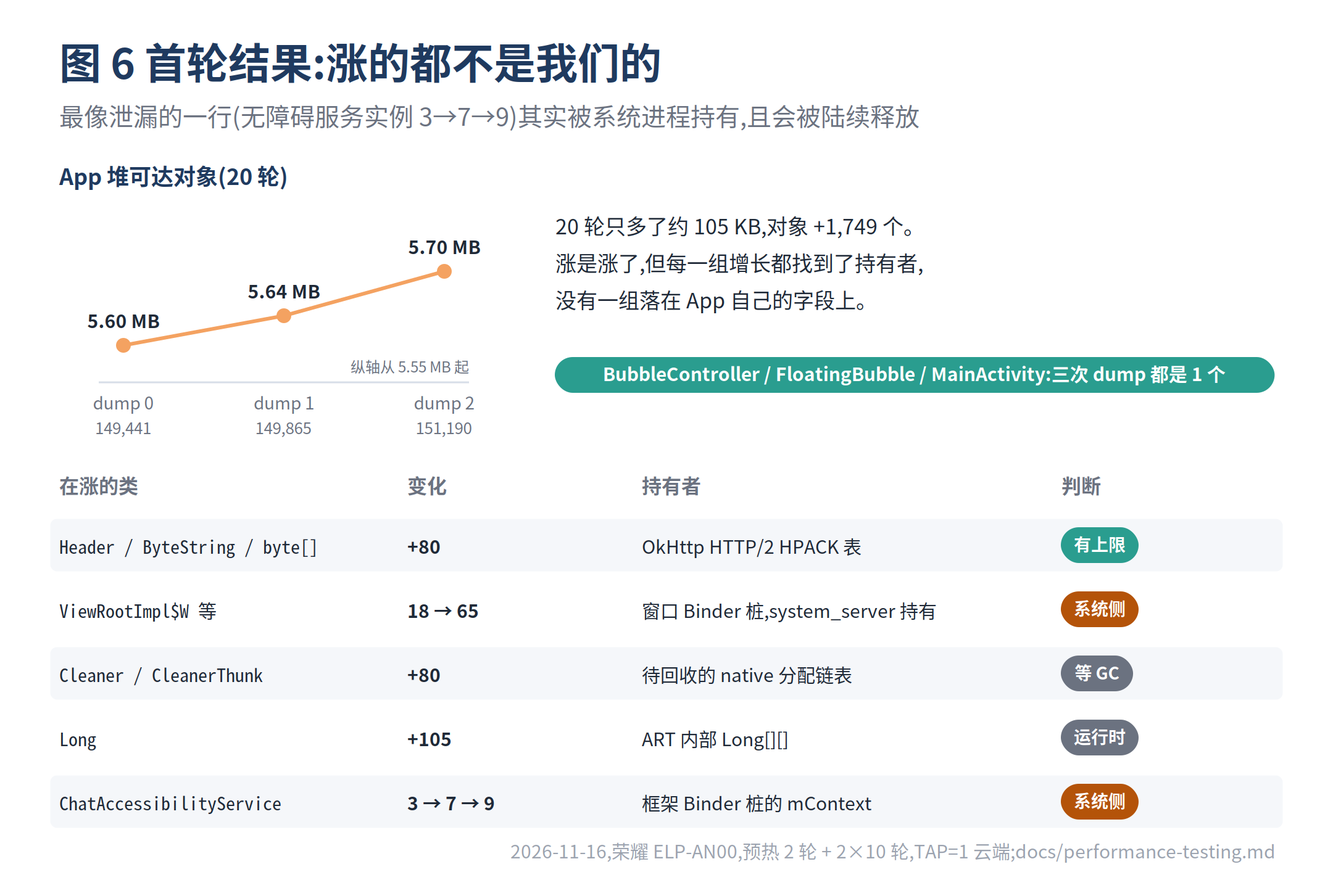
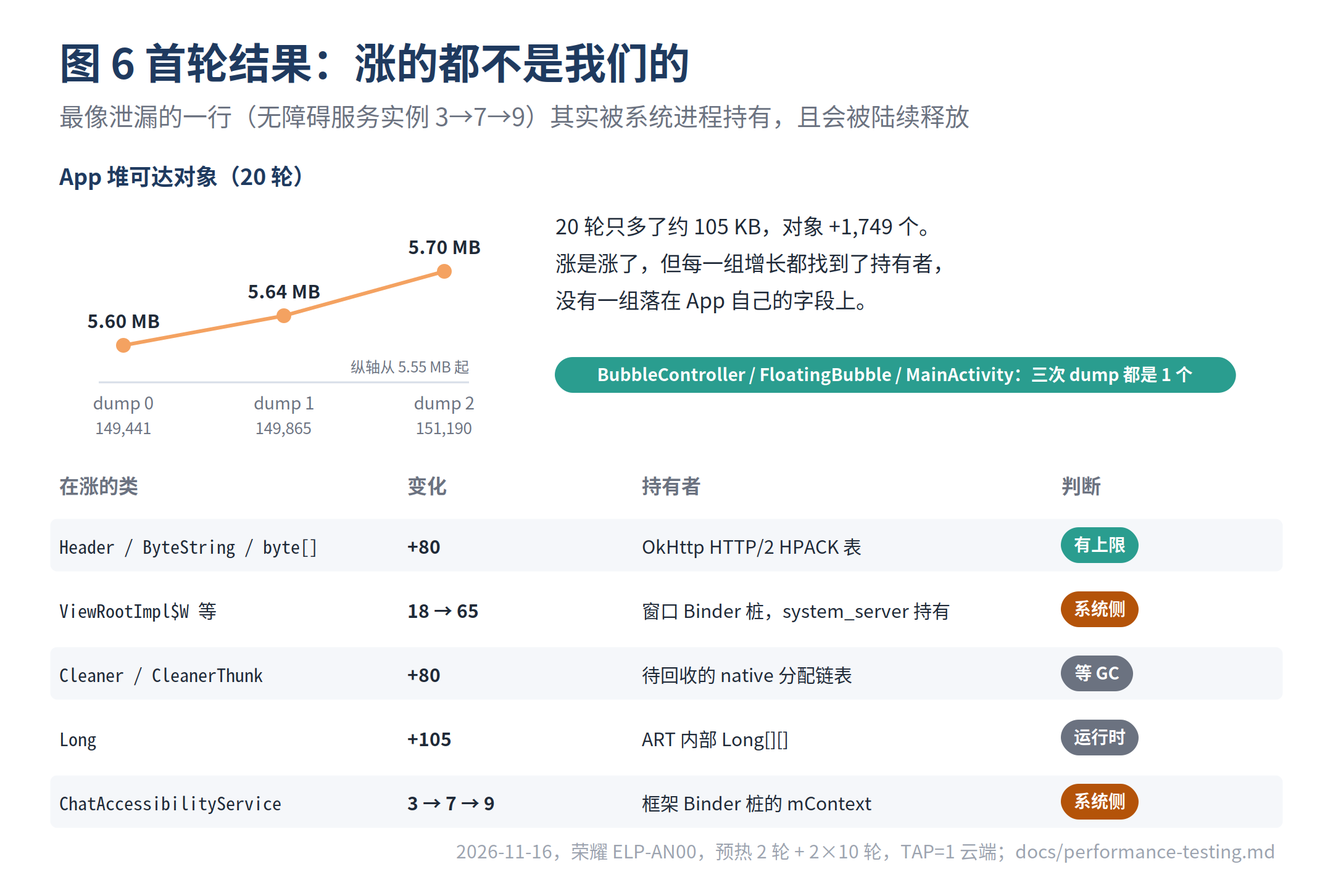
文章 quality-loops:标点改为中文全角(正文与配图)
正文:中文语境下的 , : ; ( ) " 改为 , : ; ( ) “ ”;代码、链接、千分位数字不变。
配图:build_figures.py 的 text() 对非等宽文字统一转全角标点,宽度估算同步;重新生成 SVG/PNG。

diff --git a/docs/article/quality-loops/build_figures.py b/docs/article/quality-loops/build_figures.py
@@ -50,7 +50,22 @@ def svg(h, body, title=None, subtitle=None):
     )
 
 
+def zh(s):
+    """Chinese full-width punctuation for prose labels (thousand separators and times kept)."""
+    out = []
+    for i, c in enumerate(s):
+        prev = s[i - 1] if i else ""
+        nxt = s[i + 1] if i + 1 < len(s) else ""
+        if c in ",:" and prev.isdigit() and nxt.isdigit():
+            out.append(c)
+        else:
+            out.append({",": "，", ":": "：", ";": "；", "(": "（", ")": "）", "?": "？", "!": "！"}.get(c, c))
+    return "".join(out)
+
+
 def text(x, y, s, size=20, weight=400, fill=INK, anchor="start", family=SANS, italic=False):
+    if family == SANS:
+        s = zh(s)
     st = ' font-style="italic"' if italic else ""
     return (f'<text x="{x}" y="{y}" font-family="{family}" font-size="{size}" font-weight="{weight}" '
             f'fill="{fill}" text-anchor="{anchor}"{st}>{escape(s)}</text>')
@@ -93,6 +108,7 @@ def chip(x, y, label, fill, color="#FFFFFF", size=16, padx=10, h=28):
 
 def tw(s, size):
     """Rough text width: CJK ≈ 1em, ASCII ≈ 0.56em."""
+    s = zh(s)
     return sum(size if ord(c) > 0x2E80 else size * 0.56 for c in s)
 
 
@@ -351,7 +367,7 @@ def fig6_heap():
     body += lines(450, 190, ["20 轮只多了约 105 KB,对象 +1,749 个。",
                              "涨是涨了,但每一组增长都找到了持有者,",
                              "没有一组落在 App 自己的字段上。"], 17, 400, INK, 30)
-    body += chip(450, 290, "BubbleController / FloatingBubble / MainActivity:三次 dump 都是 1 个", TEAL, size=15)[0]
+    body += chip(450, 290, "BubbleController / FloatingBubble / MainActivity:三次 dump 都是 1 个", TEAL, size=14)[0]
     # table
     ty = 400
     cols = [48, 330, 520, 860]

diff --git a/docs/article/quality-loops/article.md b/docs/article/quality-loops/article.md
@@ -1,212 +1,212 @@
-# 把性能、内存、可靠性做成回路:一个读屏 AI 助手的真机质量闭环复盘
+# 把性能、内存、可靠性做成回路：一个读屏 AI 助手的真机质量闭环复盘
 
-> 上一篇我们讲了怎么从 0 个测试搭起五层安全网。安全网解决的是"有没有",这一篇讲"能不能反复用":性能、内存泄漏、可靠性各自做成一条**可以重复跑的真机回路**,改一行代码,就用同一个脚本、同一组指标再跑一遍。文章复盘三条回路是怎么搭的、用它们定位并修掉了什么、哪些优化我们决定不做,以及一个贯穿始终的约束:**测试跑在一台真人正在用的手机上**。
+> 上一篇我们讲了怎么从 0 个测试搭起五层安全网。安全网解决的是“有没有”，这一篇讲“能不能反复用”：性能、内存泄漏、可靠性各自做成一条**可以重复跑的真机回路**，改一行代码，就用同一个脚本、同一组指标再跑一遍。文章复盘三条回路是怎么搭的、用它们定位并修掉了什么、哪些优化我们决定不做，以及一个贯穿始终的约束：**测试跑在一台真人正在用的手机上**。
 
 ---
 
-## 一、为什么是"回路",而不是"一次测试"
+## 一、为什么是“回路”，而不是“一次测试”
 
-这个 App 的工作方式决定了它的性能和可靠性问题几乎只在真机上出现:
+这个 App 的工作方式决定了它的性能和可靠性问题几乎只在真机上出现：
 
-- 用户在微信、QQ、Soul 里聊天时,屏幕边上有一个**悬浮球**;
-- 点一下,App 通过**无障碍服务**读当前聊天(读不到文字的 App 就截屏做 OCR),交给云端或端侧模型生成几条候选;
-- 它还会从用户发过的话里学习说话风格,生成时用端侧 bge 向量模型做**语义召回**。
+- 用户在微信、QQ、Soul 里聊天时，屏幕边上有一个**悬浮球**；
+- 点一下，App 通过**无障碍服务**读当前聊天（读不到文字的 App 就截屏做 OCR），交给云端或端侧模型生成几条候选；
+- 它还会从用户发过的话里学习说话风格，生成时用端侧 bge 向量模型做**语义召回**。
 
-一次点击要经过别人 App 的界面、系统的无障碍框架、截屏、OCR、一个端侧小模型、一次网络请求,任何一段在模拟器或单元测试里都看不到真实耗时。厂商系统还会在背后做各种事:调度大小核、杀后台、清设置。
+一次点击要经过别人 App 的界面、系统的无障碍框架、截屏、OCR、一个端侧小模型、一次网络请求，任何一段在模拟器或单元测试里都看不到真实耗时。厂商系统还会在背后做各种事：调度大小核、杀后台、清设置。
 
-所以我们没有满足于"测一次、写个结论",而是给三类问题各搭了一条回路,它们共用一个骨架:
+所以我们没有满足于“测一次、写个结论”，而是给三类问题各搭了一条回路，它们共用一个骨架：
 
-![图 1 三条回路,一个骨架](figures/fig1-loops.png)
+![图 1 三条回路，一个骨架](figures/fig1-loops.png)
 
-**测量 → 定位 → 修改 → 验证 → 留档 → 守护**,最后一步把检查固化下来,下一次改代码再回到第 1 步。图里每一格都对应仓库里的一个脚本、测试或文件,下面逐条展开。
+**测量 → 定位 → 修改 → 验证 → 留档 → 守护**，最后一步把检查固化下来，下一次改代码再回到第 1 步。图里每一格都对应仓库里的一个脚本、测试或文件，下面逐条展开。
 
 ---
 
 ## 二、性能回路
 
-### 2.1 先算一笔账:一次点击的时间花在哪
+### 2.1 先算一笔账：一次点击的时间花在哪
 
-我们在关键路径上打了 `Trace` 打点(没抓 trace 时只是一次已缓存的标签检查,零分配),把"点悬浮球 → 出候选"拆成几个阶段。下图是在微信「文件传输助手」里、云端模式下的一轮实测:
+我们在关键路径上打了 `Trace` 打点（没抓 trace 时只是一次已缓存的标签检查，零分配），把“点悬浮球 → 出候选”拆成几个阶段。下图是在微信「文件传输助手」里、云端模式下的一轮实测：
 
 ![图 2 一次点击的时间账](figures/fig2-tap-budget.png)
 
-几个直接的结论:
+几个直接的结论：
 
-1. **大头是云端生成**:一次点击约 2.2 s,其中 1.4–1.9 s 在等模型返回。这部分代码侧几乎做不了什么。
-2. **代码能动的是毫秒级的那几段**:读聊天(截屏 + OCR 约 0.4 s)、记忆召回(bge 推理)、无障碍事件回调。
-3. **每一段都有预算**,写在质量属性文档里:点击到出结果 P1、截屏识别额外开销 P2、单个无障碍事件 P4(≤ 8 ms,不能让聊天 App 掉帧)、记忆召回 P5(≤ 50 ms)。
+1. **大头是云端生成**：一次点击约 2.2 s，其中 1.4–1.9 s 在等模型返回。这部分代码侧几乎做不了什么。
+2. **代码能动的是毫秒级的那几段**：读聊天（截屏 + OCR 约 0.4 s）、记忆召回（bge 推理）、无障碍事件回调。
+3. **每一段都有预算**，写在质量属性文档里：点击到出结果 P1、截屏识别额外开销 P2、单个无障碍事件 P4（≤ 8 ms，不能让聊天 App 掉帧）、记忆召回 P5（≤ 50 ms）。
 
-注意图上的数字是**每个阶段各自的分位数**,不能相加;样本也只有一轮 3 次点击。单看一次不说明什么,这正是要做成回路的原因。
+注意图上的数字是**每个阶段各自的分位数**，不能相加；样本也只有一轮 3 次点击。单看一次不说明什么，这正是要做成回路的原因。
 
 ### 2.2 把手动点测变成可重复的闭环
 
-最初测"点击到出结果"靠人手点、人眼看,结论是"大概两三秒"。要比较一次修改前后的差别,这远远不够。于是有了 `perf-loop.sh`:
+最初测“点击到出结果”靠人手点、人眼看，结论是“大概两三秒”。要比较一次修改前后的差别，这远远不够。于是有了 `perf-loop.sh`：
 
 ![图 3 性能回路](figures/fig3-perf-loop.png)
 
-它做四件事:
+它做四件事：
 
-- **自动点击**:在指定聊天里反复点悬浮球,等结果,按 Home 关面板,重复 N 次 × M 轮;
-- **录打点**:atrace 录下每次点击的各个阶段;
-- **汇总并对照预算**:`trace_summary.py` 算出每阶段 P50 / P95 / 最大值,超预算就以非零退出码结束;
-- **留档**:每一轮每个阶段追加一行到 `perf-history.csv`,带上被测包的提交号和安装时间。改代码前后各跑一轮,直接比较两行。
+- **自动点击**：在指定聊天里反复点悬浮球，等结果，按 Home 关面板，重复 N 次 × M 轮；
+- **录打点**：atrace 录下每次点击的各个阶段；
+- **汇总并对照预算**：`trace_summary.py` 算出每阶段 P50 / P95 / 最大值，超预算就以非零退出码结束；
+- **留档**：每一轮每个阶段追加一行到 `perf-history.csv`，带上被测包的提交号和安装时间。改代码前后各跑一轮，直接比较两行。
 
-需要看"CPU 花在哪"时,加 `PROFILE=1`,同时用 Perfetto 以 1 kHz 采样本进程的调用栈。
+需要看“CPU 花在哪”时，加 `PROFILE=1`，同时用 Perfetto 以 1 kHz 采样本进程的调用栈。
 
-这里有一个厂商带来的坑:**这台荣耀手机停用了 `traced_probes`**,Perfetto 采不到调度、CPU 频率,也采不到 App 自己的打点。只有调用栈采样(`traced_perf`)能用。我们的办法是两份数据一起录:atrace 给阶段边界,Perfetto 给调用栈,两者都用 **BOOTTIME 时钟**,`perfetto_analyze.py` 按时间把每个采样归到它所在的阶段。后来又加了 `--html`,每个阶段生成一张可点击放大的火焰图,单文件、不依赖外网。
+这里有一个厂商带来的坑：**这台荣耀手机停用了 `traced_probes`**，Perfetto 采不到调度、CPU 频率，也采不到 App 自己的打点。只有调用栈采样（`traced_perf`）能用。我们的办法是两份数据一起录：atrace 给阶段边界，Perfetto 给调用栈，两者都用 **BOOTTIME 时钟**，`perfetto_analyze.py` 按时间把每个采样归到它所在的阶段。后来又加了 `--html`，每个阶段生成一张可点击放大的火焰图，单文件、不依赖外网。
 
-### 2.3 让调用栈说话:记忆块为什么慢
+### 2.3 让调用栈说话：记忆块为什么慢
 
-闭环跑起来后,第一个跳出来的问题是记忆块:
+闭环跑起来后，第一个跳出来的问题是记忆块：
 
 ![图 4 让调用栈说话](figures/fig4-bge.png)
 
-微基准里,bge 给一段 12 行的查询算向量只要 **52 ms**;可真机点击里,记忆块要 **约 140 ms**,慢了 2.7 倍。同一段代码、同一个模型,差在哪?
+微基准里，bge 给一段 12 行的查询算向量只要 **52 ms**；可真机点击里，记忆块要 **约 140 ms**，慢了 2.7 倍。同一段代码、同一个模型，差在哪？
 
-调用栈采样给了答案:
+调用栈采样给了答案：
 
-- 记忆块的时间几乎全是 `embed.forward`,也就是 bge 推理本身;
-- 其中 **34% 的采样落在 MNN 线程池的 `sched_yield` 上**,线程在空转等活;
-- 同一时段,厂商调度器在**暂停大核**。
+- 记忆块的时间几乎全是 `embed.forward`，也就是 bge 推理本身；
+- 其中 **34% 的采样落在 MNN 线程池的 `sched_yield` 上**，线程在空转等活；
+- 同一时段，厂商调度器在**暂停大核**。
 
-也就是说,不是模型算得慢,而是"4 个线程忙等 + 调度器不给大核"配合得很差。微基准跑在安静的手机上,碰不到这种情况。
+也就是说，不是模型算得慢，而是“4 个线程忙等 + 调度器不给大核”配合得很差。微基准跑在安静的手机上，碰不到这种情况。
 
-原来的线程数和功耗档位写死在 native 库里。我们把它们改成从 JNI 传入,重编 `libembedjni.so`,然后在真机上做**背靠背 A/B**:同一台手机、同一个聊天,每组 6–8 次点击,几组配置紧挨着跑完,尽量让温度和后台状态一致。结果有两点值得记下:
+原来的线程数和功耗档位写死在 native 库里。我们把它们改成从 JNI 传入，重编 `libembedjni.so`，然后在真机上做**背靠背 A/B**：同一台手机、同一个聊天，每组 6–8 次点击，几组配置紧挨着跑完，尽量让温度和后台状态一致。结果有两点值得记下：
 
-- **线程不是越多越好**:6 线程的 P95 反而最差(243 ms),2 线程也比 4 线程慢;
-- 最后采用 **4 线程 + `Power_High`**,P95 从约 190 ms 降到约 137 ms。
+- **线程不是越多越好**：6 线程的 P95 反而最差（243 ms），2 线程也比 4 线程慢；
+- 最后采用 **4 线程 + `Power_High`**，P95 从约 190 ms 降到约 137 ms。
 
-这个结论如果只看微基准,大概率会得出"加线程"的相反答案。
+这个结论如果只看微基准，大概率会得出“加线程”的相反答案。
 
-### 2.4 决定不做的优化,和后来又做了的
+### 2.4 决定不做的优化，和后来又做了的
 
-回路的另一个作用,是让"不做"也有依据。性能文档里明确记了三项暂不做的事:
+回路的另一个作用，是让“不做”也有依据。性能文档里明确记了三项暂不做的事：
 
-- **记忆块压到 50 ms 预算**:配置已经调到头,再降只能缩短查询(现在取最近 12 行聊天)或提前计算,会影响召回效果,这是产品取舍,不是工程问题。
-- **生成期间的加载动画**:云端模式下它占约一个核的 17%;本地模式下会和端侧推理抢 CPU,是否改成静态提示待定。
-- **OCR 前裁剪截图**:当时估计只能少约 14% 像素、省约 50 ms,而识别坐标、按像素判断发送者的逻辑都要跟着平移,压线的消息还可能被截掉半截,收益不抵风险。
+- **记忆块压到 50 ms 预算**：配置已经调到头，再降只能缩短查询（现在取最近 12 行聊天）或提前计算，会影响召回效果，这是产品取舍，不是工程问题。
+- **生成期间的加载动画**：云端模式下它占约一个核的 17%；本地模式下会和端侧推理抢 CPU，是否改成静态提示待定。
+- **OCR 前裁剪截图**：当时估计只能少约 14% 像素、省约 50 ms，而识别坐标、按像素判断发送者的逻辑都要跟着平移，压线的消息还可能被截掉半截，收益不抵风险。
 
-最后这一项后来又做了。读屏模块重构后,截图时已经能拿到每条消息气泡的边界,于是在 #75 里把截图裁到"键盘以上、所有气泡的并集"。这次的动机主要是**准确性**:标题栏、输入栏、气泡周围的面板在 OCR 之前就裁掉了,不会被误识别成聊天内容。当初担心的坐标平移,用 7 个单测覆盖住了。
+最后这一项后来又做了。读屏模块重构后，截图时已经能拿到每条消息气泡的边界，于是在 #75 里把截图裁到“键盘以上、所有气泡的并集”。这次的动机主要是**准确性**：标题栏、输入栏、气泡周围的面板在 OCR 之前就裁掉了，不会被误识别成聊天内容。当初担心的坐标平移，用 7 个单测覆盖住了。
 
-同一件事两次结论相反,原因是前提变了:第一次没有消息边界,只能按固定比例裁,风险大;第二次有了精确边界,风险可以用测试兜住。
+同一件事两次结论相反，原因是前提变了：第一次没有消息边界，只能按固定比例裁，风险大；第二次有了精确边界，风险可以用测试兜住。
 
 ---
 
 ## 三、内存泄漏回路
 
-### 3.1 思路:反复折腾生命周期,比较堆里谁在涨
+### 3.1 思路：反复折腾生命周期，比较堆里谁在涨
 
-这个 App 有几类会被反复创建、销毁的对象:设置页的 Activity 和 Compose 界面、悬浮球和面板的窗口、每次点击的读屏和生成流程。泄漏的典型表现是:旧实例被某个字段挂住,每来一轮就多一个。
+这个 App 有几类会被反复创建、销毁的对象：设置页的 Activity 和 Compose 界面、悬浮球和面板的窗口、每次点击的读屏和生成流程。泄漏的典型表现是：旧实例被某个字段挂住，每来一轮就多一个。
 
-只看一次堆 dump 很难判断"这 300 个对象多不多"。所以泄漏回路的核心是**比较趋势**:
+只看一次堆 dump 很难判断“这 300 个对象多不多”。所以泄漏回路的核心是**比较趋势**：
 
 ![图 5 内存泄漏回路](figures/fig5-leak-loop.png)
 
-`leak-loop.sh` 每一轮做三件事:打开首页再按 Home;关掉无障碍服务等悬浮球消失,再打开等它回来;在测试聊天里点一次悬浮球。先预热 2 轮(首次使用的缓存不算泄漏),之后每 10 轮用 Perfetto 的 `android.java_hprof` dump 一次 Java 堆。
+`leak-loop.sh` 每一轮做三件事：打开首页再按 Home；关掉无障碍服务等悬浮球消失，再打开等它回来；在测试聊天里点一次悬浮球。先预热 2 轮（首次使用的缓存不算泄漏），之后每 10 轮用 Perfetto 的 `android.java_hprof` dump 一次 Java 堆。
 
-有两点选择值得说:
+有两点选择值得说：
 
-- **直接在正式包上 dump**。release 包本身就是 profileable 的,不需要 debug 包,也不往 App 里加任何检测代码;Java 堆 dump 也不依赖被厂商停掉的 `traced_probes`。
-- **堆 dump 就是 App 的全部 Java 内存**,里面有聊天原文和 API Key。所以报告生成后默认删除,只有显式设 `KEEP=1` 才保留。
+- **直接在正式包上 dump**。release 包本身就是 profileable 的，不需要 debug 包，也不往 App 里加任何检测代码；Java 堆 dump 也不依赖被厂商停掉的 `traced_probes`。
+- **堆 dump 就是 App 的全部 Java 内存**，里面有聊天原文和 API Key。所以报告生成后默认删除，只有显式设 `KEEP=1` 才保留。
 
-`heap_leak.py` 的判断规则只有四条:只看从 GC root 还能走到的对象;某个类在每个区间都涨、且平均每轮至少多 1 个,才算疑似泄漏;`BubbleController`、`FloatingBubble`、`MainActivity` 这类生命周期对象同一时刻最多 1 个,多了就打印从 GC root 到它的最短引用链(字段名用 R8 mapping 还原);最后按引用链末尾几跳分组,看增长落在谁手里。
+`heap_leak.py` 的判断规则只有四条：只看从 GC root 还能走到的对象；某个类在每个区间都涨、且平均每轮至少多 1 个，才算疑似泄漏；`BubbleController`、`FloatingBubble`、`MainActivity` 这类生命周期对象同一时刻最多 1 个，多了就打印从 GC root 到它的最短引用链（字段名用 R8 mapping 还原）；最后按引用链末尾几跳分组，看增长落在谁手里。
 
-### 3.2 首轮结果:涨的都不是我们的
+### 3.2 首轮结果：涨的都不是我们的
 
 ![图 6 首轮结果](figures/fig6-heap-growth.png)
 
-预热 2 轮加 2 × 10 轮,App 堆可达对象从 149,441 涨到 151,190,约多了 105 KB。涨是涨了,但每一组都找到了持有者:
+预热 2 轮加 2 × 10 轮，App 堆可达对象从 149,441 涨到 151,190，约多了 105 KB。涨是涨了，但每一组都找到了持有者：
 
-- OkHttp HTTP/2 的 **HPACK 动态表**:有上限(默认 4 KB),不是泄漏;
-- 窗口的 **Binder 桩**(`ViewRootImpl$W` 等):GC root 是 JNI 全局引用,由 system_server 持有,`ViewRootImpl` 本身始终是 2 个;
-- `Cleaner`:等待回收的 native 分配;`Long`:ART 内部。
+- OkHttp HTTP/2 的 **HPACK 动态表**：有上限（默认 4 KB），不是泄漏；
+- 窗口的 **Binder 桩**（`ViewRootImpl$W` 等）：GC root 是 JNI 全局引用，由 system_server 持有，`ViewRootImpl` 本身始终是 2 个；
+- `Cleaner`：等待回收的 native 分配；`Long`：ART 内部。
 
-最吓人的一行是 **`ChatAccessibilityService` 实例 3 → 7 → 9**。无障碍服务是常驻服务,它要是泄漏,问题就大了。引用链显示,持有它的是框架里 `IAccessibilityServiceClientWrapper` 的 `mContext`,同样是 system_server 那边的 Binder 桩:每次重开无障碍,系统新建一个服务实例,旧实例要等系统释放 Binder 才能回收。而且增长不是每轮一个,说明旧实例在被陆续释放。App 代码里没有任何地方引用旧实例。
+最吓人的一行是 **`ChatAccessibilityService` 实例 3 → 7 → 9**。无障碍服务是常驻服务，它要是泄漏，问题就大了。引用链显示，持有它的是框架里 `IAccessibilityServiceClientWrapper` 的 `mContext`，同样是 system_server 那边的 Binder 桩：每次重开无障碍，系统新建一个服务实例，旧实例要等系统释放 Binder 才能回收。而且增长不是每轮一个，说明旧实例在被陆续释放。App 代码里没有任何地方引用旧实例。
 
-App 自己的生命周期对象,三次 dump 都是 1 个。**首轮结论:没有 App 侧泄漏。** 但如果没有"按持有者归因"这一步,我们很可能会去"修"一个系统行为。
+App 自己的生命周期对象，三次 dump 都是 1 个。**首轮结论：没有 App 侧泄漏。** 但如果没有“按持有者归因”这一步，我们很可能会去“修”一个系统行为。
 
-### 3.3 内存峰值:不是泄漏,也值得管
+### 3.3 内存峰值：不是泄漏，也值得管
 
-泄漏之外,另一类内存问题是**峰值**。读聊天走截图路径时,一张整屏截图拷成软件位图约 13 MB。这里做过三处修改:
+泄漏之外，另一类内存问题是**峰值**。读聊天走截图路径时，一张整屏截图拷成软件位图约 13 MB。这里做过三处修改：
 
-- 截图回调改到后台线程,这次拷贝不再占主线程;
-- 用户连续点击、上一次请求被取消时,**回收已经拷出来的位图**,不再等 GC;
-- 截图裁剪后**立即回收整屏位图**,识别阶段内存里少一张整屏图。
+- 截图回调改到后台线程，这次拷贝不再占主线程；
+- 用户连续点击、上一次请求被取消时，**回收已经拷出来的位图**，不再等 GC；
+- 截图裁剪后**立即回收整屏位图**，识别阶段内存里少一张整屏图。
 
 ---
 
 ## 四、可靠性回路
 
-### 4.1 四个来源,互相校验
+### 4.1 四个来源，互相校验
 
-上一篇讲过白盒测试(数据库事务、迁移、超时)和真机黑盒测试(崩溃、内存压力、收回权限、断网、旋转)。这一篇想补的是它们怎么连成回路,以及测试覆盖不到的那一块:
+上一篇讲过白盒测试（数据库事务、迁移、超时）和真机黑盒测试（崩溃、内存压力、收回权限、断网、旋转）。这一篇想补的是它们怎么连成回路，以及测试覆盖不到的那一块：
 
 ![图 7 可靠性回路](figures/fig7-reliability-loop.png)
 
-- **白盒**守逻辑,每次 CI 都跑,秒级;
-- **黑盒**守恢复,在真机上按需跑;
-- **线上诊断**守用户手机:错误码、崩溃记录、退出原因、关键操作耗时,只记录码和数字,不含聊天内容,用户主动导出才离开手机;
-- **厂商系统**:测试测不到、只能在真机上被碰到的部分。
+- **白盒**守逻辑，每次 CI 都跑，秒级；
+- **黑盒**守恢复，在真机上按需跑；
+- **线上诊断**守用户手机：错误码、崩溃记录、退出原因、关键操作耗时，只记录码和数字，不含聊天内容，用户主动导出才离开手机；
+- **厂商系统**：测试测不到、只能在真机上被碰到的部分。
 
 ### 4.2 让测试顺便验收诊断
 
-诊断系统的价值在于"出了问题能看到",可它自己要是没写进去,平时完全发现不了。我们的做法是让黑盒测试**顺便验收诊断**:
+诊断系统的价值在于“出了问题能看到”，可它自己要是没写进去，平时完全发现不了。我们的做法是让黑盒测试**顺便验收诊断**：
 
-- 崩溃用例用 `am crash` 让进程崩溃,前后各导出一次诊断;
-- 要求 `APP-901`(崩溃时在未捕获异常处理器里**同步写下**)**恰好多 1 条**;
-- 要求有新的 `APP-902`,且最新退出原因是 `CRASH`(下次启动时从系统的 `ApplicationExitInfo` 读到)。
+- 崩溃用例用 `am crash` 让进程崩溃，前后各导出一次诊断；
+- 要求 `APP-901`（崩溃时在未捕获异常处理器里**同步写下**）**恰好多 1 条**；
+- 要求有新的 `APP-902`，且最新退出原因是 `CRASH`（下次启动时从系统的 `ApplicationExitInfo` 读到）。
 
-同样,每个黑盒用例结束时都会查 `dumpsys dropbox`,看这段时间有没有崩溃或 ANR;崩溃用例要求恰好 1 次,这同时验证了"检测本身有效"。这台手机屏蔽了 release 包的 logcat,如果靠日志判断崩溃,所有用例都会"通过"。
+同样，每个黑盒用例结束时都会查 `dumpsys dropbox`，看这段时间有没有崩溃或 ANR；崩溃用例要求恰好 1 次，这同时验证了“检测本身有效”。这台手机屏蔽了 release 包的 logcat，如果靠日志判断崩溃，所有用例都会“通过”。
 
-诊断里还有一块是**耗时分布**:点击到出结果、云端 / 本地生成、截图识别、一次学习,各按 9 个固定分桶(< 250 ms … ≥ 30 s)计数,导出时报 P50 / P95。它只接在点击路径和学习上,读屏事件回调不加,不给热路径添负担。这样用户那边反馈"变慢了",导出里就有分布可看。
+诊断里还有一块是**耗时分布**：点击到出结果、云端 / 本地生成、截图识别、一次学习，各按 9 个固定分桶（< 250 ms … ≥ 30 s）计数，导出时报 P50 / P95。它只接在点击路径和学习上，读屏事件回调不加，不给热路径添负担。这样用户那边反馈“变慢了”，导出里就有分布可看。
 
 ### 4.3 基线
 
 ![图 8 黑盒可靠性基线](figures/fig8-recovery.png)
 
-进程崩溃后,无障碍服务 65 ms、悬浮窗服务 80 ms 内被系统拉起;无障碍关掉再打开,52 ms 内重新绑定;断网时点"测试连接",1.6 s 给出"网络连接失败",不会一直转圈。这组数据是 11-15 测的,连续两轮 6/6 通过。之后悬浮球从 Service 改成了由 Application 管理的普通对象,下次跑黑盒时这张表会更新。
+进程崩溃后，无障碍服务 65 ms、悬浮窗服务 80 ms 内被系统拉起；无障碍关掉再打开，52 ms 内重新绑定；断网时点“测试连接”，1.6 s 给出“网络连接失败”，不会一直转圈。这组数据是 11-15 测的，连续两轮 6/6 通过。之后悬浮球从 Service 改成了由 Application 管理的普通对象，下次跑黑盒时这张表会更新。
 
-### 4.4 测试测不到的:厂商在"划掉"时做了什么
+### 4.4 测试测不到的：厂商在“划掉”时做了什么
 
-所有黑盒用例都过了,真机上还是出了一个问题:**从最近任务里划掉 App 后,荣耀的后台管理会停掉进程,并顺带清掉无障碍设置**。用户下次打开聊天,悬浮球不见了,还得去系统设置里重新打开无障碍。
+所有黑盒用例都过了，真机上还是出了一个问题：**从最近任务里划掉 App 后，荣耀的后台管理会停掉进程，并顺带清掉无障碍设置**。用户下次打开聊天，悬浮球不见了，还得去系统设置里重新打开无障碍。
 
-这个问题测试很难覆盖:它依赖厂商策略,不同品牌、不同版本表现不一样。我们做了两件事:
+这个问题测试很难覆盖：它依赖厂商策略，不同品牌、不同版本表现不一样。我们做了两件事：
 
-- **悬浮球显示期间用前台服务保活**:`KeepLiveService` 只做一件事,挂一个常驻通知,随悬浮球启停;它不是 sticky 的,被杀后等无障碍重连、悬浮球回来时再由 Application 启动;启动失败记错误码 `BUB-501`。
-- **引导用户"允许后台运行"**:各厂商的"应用启动管理"没有公开接口,只能把用户带到对应页面。首页加了一个入口,按顺序尝试荣耀、华为、小米、OPPO / 一加、vivo 的设置页,打不开就试下一个,最后兜底到应用详情页。状态读不到,所以做成按钮加说明,不显示勾选。
+- **悬浮球显示期间用前台服务保活**：`KeepLiveService` 只做一件事，挂一个常驻通知，随悬浮球启停；它不是 sticky 的，被杀后等无障碍重连、悬浮球回来时再由 Application 启动；启动失败记错误码 `BUB-501`。
+- **引导用户“允许后台运行”**：各厂商的“应用启动管理”没有公开接口，只能把用户带到对应页面。首页加了一个入口，按顺序尝试荣耀、华为、小米、OPPO / 一加、vivo 的设置页，打不开就试下一个，最后兜底到应用详情页。状态读不到，所以做成按钮加说明，不显示勾选。
 
-回路的意义在这里也成立:这次从真机上碰到的问题,修完要在诊断里留下记录(`BUB-501`),下一次再出现时能看到。
+回路的意义在这里也成立：这次从真机上碰到的问题，修完要在诊断里留下记录（`BUB-501`），下一次再出现时能看到。
 
 ---
 
 ## 五、在一台真人在用的手机上跑回路
 
-三条回路有一个共同的前提:**测试机是一台日常在用的手机**,上面有真实的聊天、真实的 API Key、真实的系统设置。自动化脚本出一点错,后果就是真实的。
+三条回路有一个共同的前提：**测试机是一台日常在用的手机**，上面有真实的聊天、真实的 API Key、真实的系统设置。自动化脚本出一点错，后果就是真实的。
 
 ![图 9 在一台真人在用的手机上跑回路](figures/fig9-safety.png)
 
-图里每一条护栏背后都有一次"差点出事"或"真的踩到":
+图里每一条护栏背后都有一次“差点出事”或“真的踩到”：
 
-- **点到别的聊天**。有一次手动点测时,输入法已经收起,按固定坐标的一次点击落进了一个真实的私聊(没有发出任何内容,按返回退出了)。之后 `perf-loop.sh` 在每次点击前都比对聊天标题栏:同一个聊天变化 0%,换一个聊天约 7%,阈值取 0.2%;不是参考聊天就整轮中止。只保留标题栏这一条截图,整屏截图从不落盘。
-- **关面板时误选候选**。按坐标点面板的关闭按钮,标题变成两行时按钮会下移,结果点中了一条候选,被自动填进了聊天输入框。从此关面板只按 Home:离开聊天 App 时悬浮球隐藏、面板自动移除,不会误触。
-- **改系统设置**。泄漏回路要关无障碍,脚本开始前记下原值,退出时(包括中途失败)恢复。
-- **monkey 和 force-stop**。随机点击会点中"清空记忆";而在这台 ROM 上,`force-stop` 会把 App 从已启用的无障碍服务里移除。所以不做 monkey,崩溃场景用 `am crash`。
-- **测试框架自己干扰被测对象**。UiAutomator 连上 UiAutomation 后,默认会暂停设备上其他的无障碍服务,包括被测 App 的。必须在第一次使用前设置 `FLAG_DONT_SUPPRESS_ACCESSIBILITY_SERVICES`。
+- **点到别的聊天**。有一次手动点测时，输入法已经收起，按固定坐标的一次点击落进了一个真实的私聊（没有发出任何内容，按返回退出了）。之后 `perf-loop.sh` 在每次点击前都比对聊天标题栏：同一个聊天变化 0%，换一个聊天约 7%，阈值取 0.2%；不是参考聊天就整轮中止。只保留标题栏这一条截图，整屏截图从不落盘。
+- **关面板时误选候选**。按坐标点面板的关闭按钮，标题变成两行时按钮会下移，结果点中了一条候选，被自动填进了聊天输入框。从此关面板只按 Home：离开聊天 App 时悬浮球隐藏、面板自动移除，不会误触。
+- **改系统设置**。泄漏回路要关无障碍，脚本开始前记下原值，退出时（包括中途失败）恢复。
+- **monkey 和 force-stop**。随机点击会点中“清空记忆”；而在这台 ROM 上，`force-stop` 会把 App 从已启用的无障碍服务里移除。所以不做 monkey，崩溃场景用 `am crash`。
+- **测试框架自己干扰被测对象**。UiAutomator 连上 UiAutomation 后，默认会暂停设备上其他的无障碍服务，包括被测 App 的。必须在第一次使用前设置 `FLAG_DONT_SUPPRESS_ACCESSIBILITY_SERVICES`。
 
 ---
 
 ## 六、几条可以带走的经验
 
-1. **性能问题先看真机调用栈,再动参数**。微基准 52 ms、真机 140 ms,差距来自线程忙等和厂商调度,只看微基准会得出相反的结论。
-2. **A/B 要背靠背,要看 P95**。多线程在 P50 上差别不大,在 P95 上差了 100 ms。
-3. **泄漏要看趋势、要归因到持有者**。单次 dump 里"多出来的对象"大多是有界缓存和系统持有的 Binder 桩;不归因,就会去修一个不存在的泄漏。
-4. **让测试验收可观测性**。诊断写没写进去,平时发现不了;让崩溃用例核对错误码,才知道线上出事时真的能看到。
-5. **"不做"也要写下来,连同前提**。OCR 裁剪第一次不做、第二次做了,都对,因为前提变了。把前提写进文档,下次才知道该不该重新评估。
-6. **真机回路的第一需求是安全,不是覆盖率**。在真人的手机上,先保证不点错、不泄密、不改坏设置,再谈跑多少轮。
+1. **性能问题先看真机调用栈，再动参数**。微基准 52 ms、真机 140 ms，差距来自线程忙等和厂商调度，只看微基准会得出相反的结论。
+2. **A/B 要背靠背，要看 P95**。多线程在 P50 上差别不大，在 P95 上差了 100 ms。
+3. **泄漏要看趋势、要归因到持有者**。单次 dump 里“多出来的对象”大多是有界缓存和系统持有的 Binder 桩；不归因，就会去修一个不存在的泄漏。
+4. **让测试验收可观测性**。诊断写没写进去，平时发现不了；让崩溃用例核对错误码，才知道线上出事时真的能看到。
+5. **“不做”也要写下来，连同前提**。OCR 裁剪第一次不做、第二次做了，都对，因为前提变了。把前提写进文档，下次才知道该不该重新评估。
+6. **真机回路的第一需求是安全，不是覆盖率**。在真人的手机上，先保证不点错、不泄密、不改坏设置，再谈跑多少轮。
 
 ---
 
-**附:数据与脚本**
+**附：数据与脚本**
 
 | 内容 | 位置 |
 |---|---|
@@ -214,6 +214,6 @@ App 自己的生命周期对象,三次 dump 都是 1 个。**首轮结论:没有
 | 内存泄漏回路 | `quality/scripts/leak-loop.sh`、`heap_leak.py`、`quality/perfetto/java-heap.pbtxt` |
 | 可靠性黑盒 | `quality/reliability/`、`quality/scripts/run-reliability.sh` |
 | 方法与基线 | `docs/performance-testing.md`、`docs/reliability-testing.md`、`docs/observability-design.md` |
-| 本文配图 | `docs/article/quality-loops/build_figures.py`(SVG 生成后用 cairosvg 渲染为 2 倍 PNG) |
+| 本文配图 | `docs/article/quality-loops/build_figures.py`（SVG 生成后用 cairosvg 渲染为 2 倍 PNG） |
 
-测试机:荣耀 ELP-AN00(骁龙 8s Gen3 / Android 16)。文中数据测于 2026-11-14 至 11-16,图 2 来自 `perf-history.csv` 的单轮记录,图 4、图 6、图 8 来自上表文档。
+测试机：荣耀 ELP-AN00（骁龙 8s Gen3 / Android 16）。文中数据测于 2026-11-14 至 11-16，图 2 来自 `perf-history.csv` 的单轮记录，图 4、图 6、图 8 来自上表文档。
